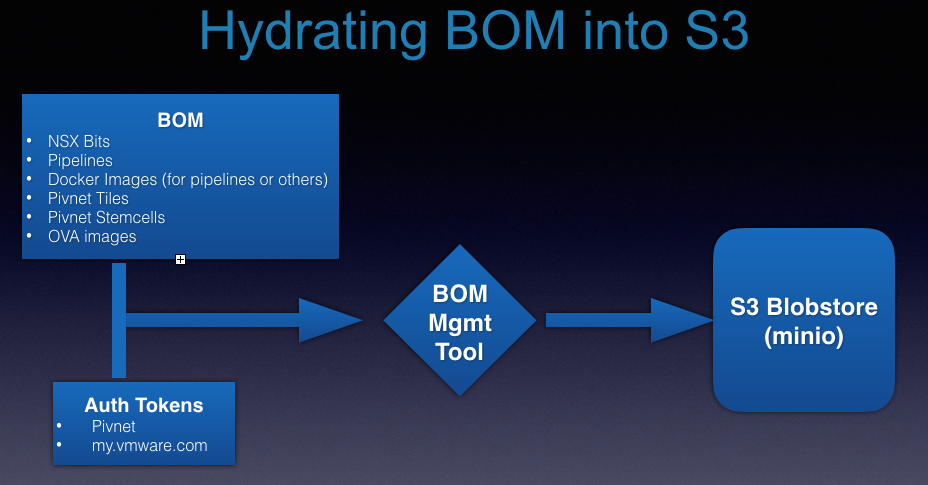
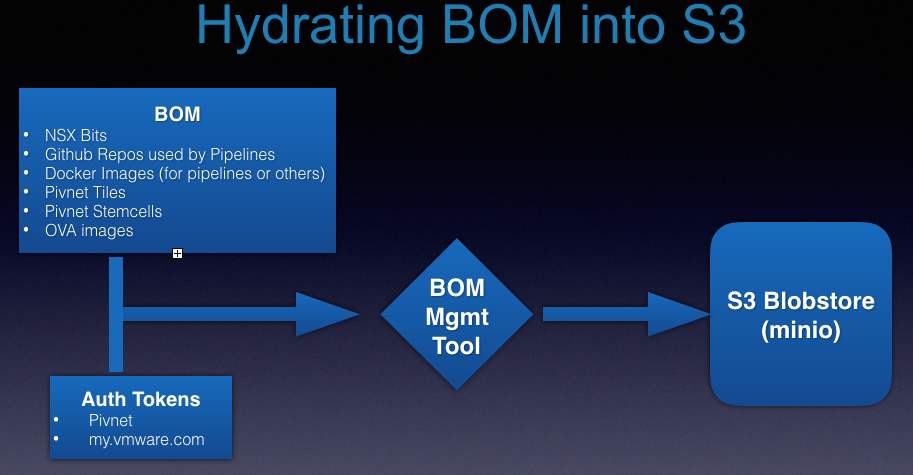
add main workflow

diff --git a/README.md b/README.md
@@ -2,6 +2,7 @@
 Complete automated install of NSX-T and PKS in a can.
 
 The install is meant to be run in an offline mode by first creating an OVA that can be used to run [Concourse](https://concourse-ci.org) and [Minio](https://github.com/minio/) while all the necessary bits that are required (either by the pipeline or the install) gets persisted into a S3 Blobstore (minio) and then used by the pipeline during the install to complete NSX-T and PKS deployments.
+<div><img src="images/canned-pks-workflow.png" width="500"/></div>
 
 ## Associated Repos
 * [Boostrap OVA]()
@@ -16,7 +17,9 @@ OVA image that contains the Concourse and minio pre-installed to run the offline
 
 ## Bill of Materials (BOM)
 
-Bill of Materials are comprised of online sources that need to be downloaded and then uploaded into S3 blobstore (minio) to install NSX-T and PKS in offline mode. Includes:
+Installing the NSX-T or PKS requires access to couple of resources that are available in online mode and not in offline mode; these include github repos, docker images used by concourse tasks, Pivotal Tiles available from Pivnet, Stemcells, OVA images (either for Pivotal Ops Manager, or NSX-T, other file resources etc.). These dependent artifacts together form the Bill of Materials (BOM).
+
+The Bill of Materials that need to be downloaded in online mode and then need to uploaded into S3 blobstore (minio) for the install pipelines of NSX-T and PKS in function in offline mode. BOM would include:
 
 * Github repo tarballs
 * Docker images used by pipelines
@@ -173,6 +176,8 @@ fly -t concourse-canned-pks unpause-pipeline -p  offline-install-nsx-t
   Note: Ensure no errors or missing parameters are reported during the registration of the pipeline.
 
   <div><img src="images/nsx-t-install.png" width="500"/></div>
+
+Note: In case of any issues or request to delete the install, use the wipe-env job to wipe away the NSX-T Mgmt plane and also to remove the NSX-T vibs from the ESXi hosts. The wipe does require a manual rolling restart of the ESXi hosts for clean removal of the vibs at end of the wipe job.
 
 * Installing PKS
 Register the generated effective PKS & Harbor param file with the offline PKS install pipeline template to kick off the PKS install in offline mode:
